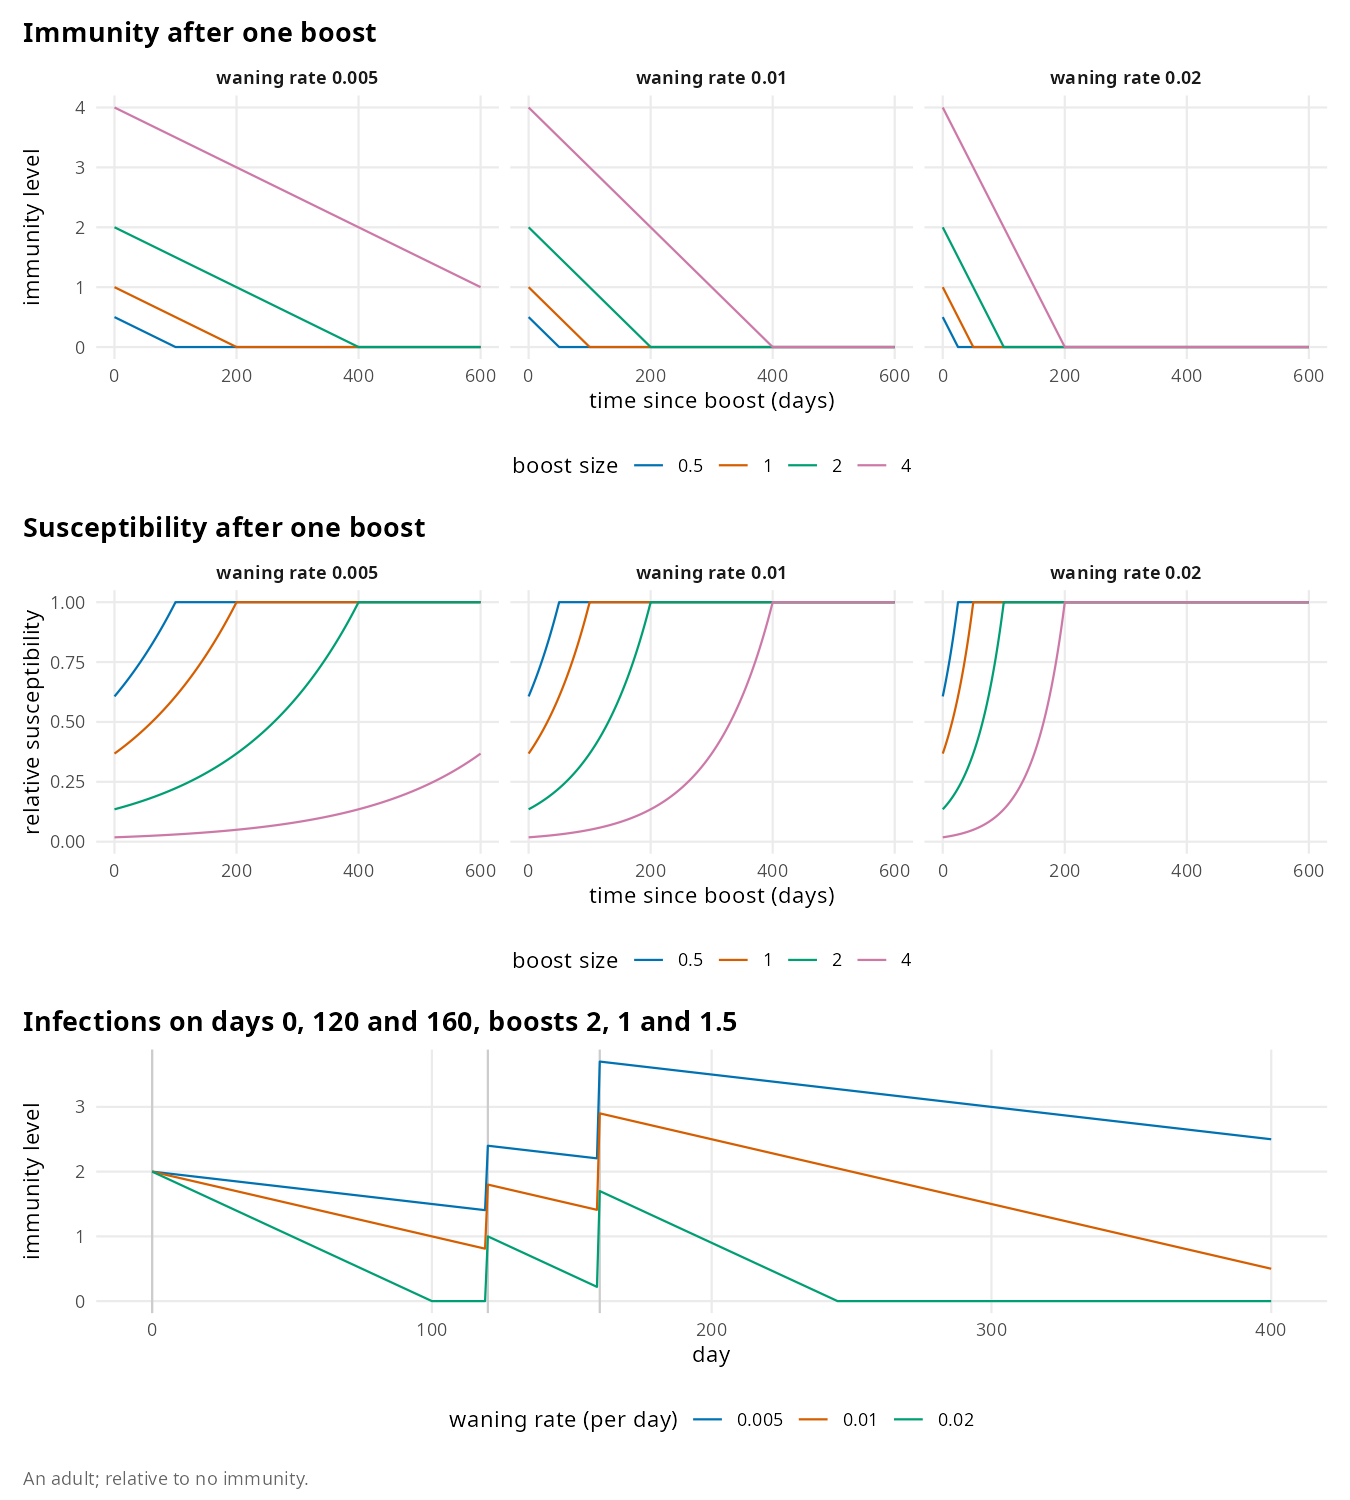
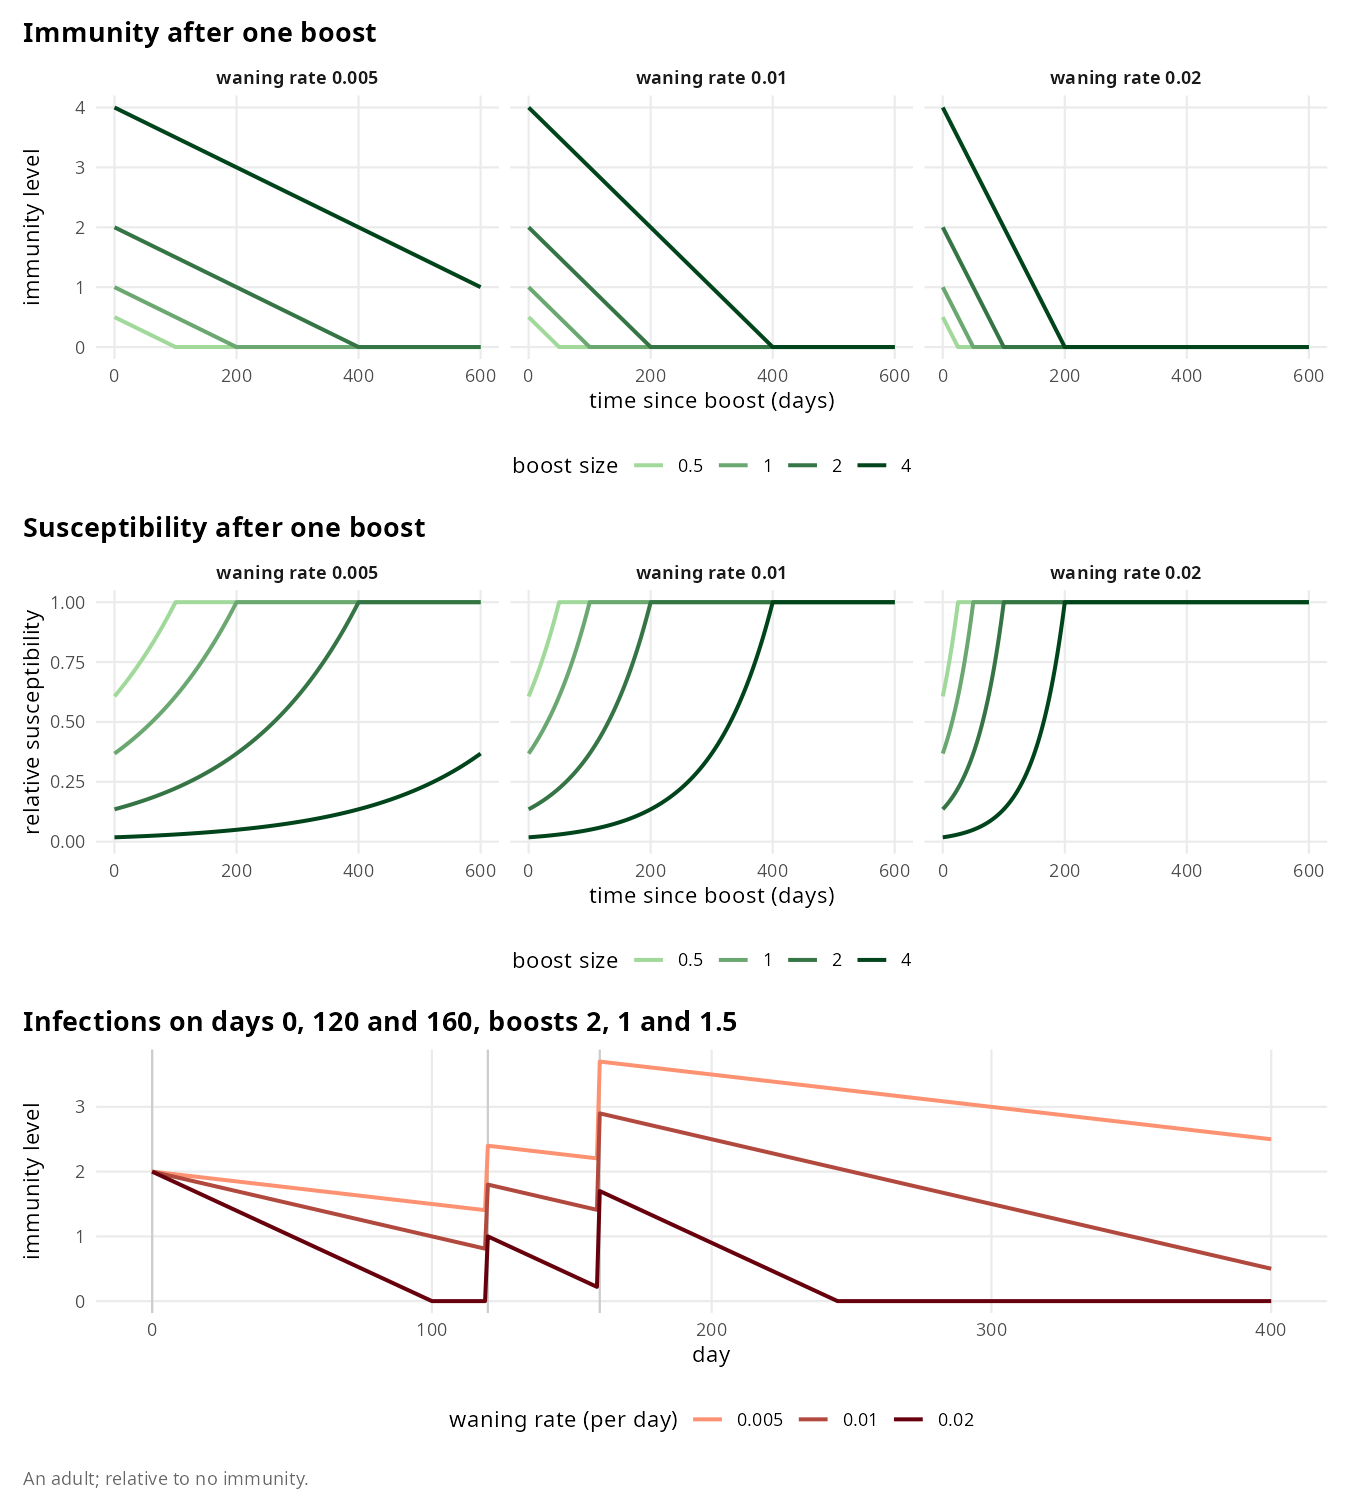
Give each varied quantity its own colour scale, and thicken lines
Viral load, immunity, boost size, waning rate, age group and location each
have a colour scale in reports/theme.R, used across all figures; lines are
thicker except in figures of individual simulations.

Claude-Session: https://claude.ai/code/session_011UystXn76S4dpGdDbwH8h7

diff --git a/DESIGN.md b/DESIGN.md
@@ -350,8 +350,11 @@ the same name in `reports/figures/` that reads only that file and saves the
 figure. The expected behaviour is stated at the top of the figure script.
 Replicate simulations run in parallel, each with its own random number
 stream from a fixed seed, so results do not depend on the number of cores.
-The shared theme is in `reports/theme.R`, and `reports/make_all.R` remakes
-everything. Each figure is listed under its features in the links file.
+The shared theme is in `reports/theme.R`. It gives each quantity that
+figures vary its own colour scale (for example oranges for viral load and
+blues for immunity), so a colour means the same quantity in every figure,
+and draws figures of individual simulations with thinner lines.
+`reports/make_all.R` remakes everything. Each figure is listed under its features in the links file.
 
 ## 6. The exact simulator
 
